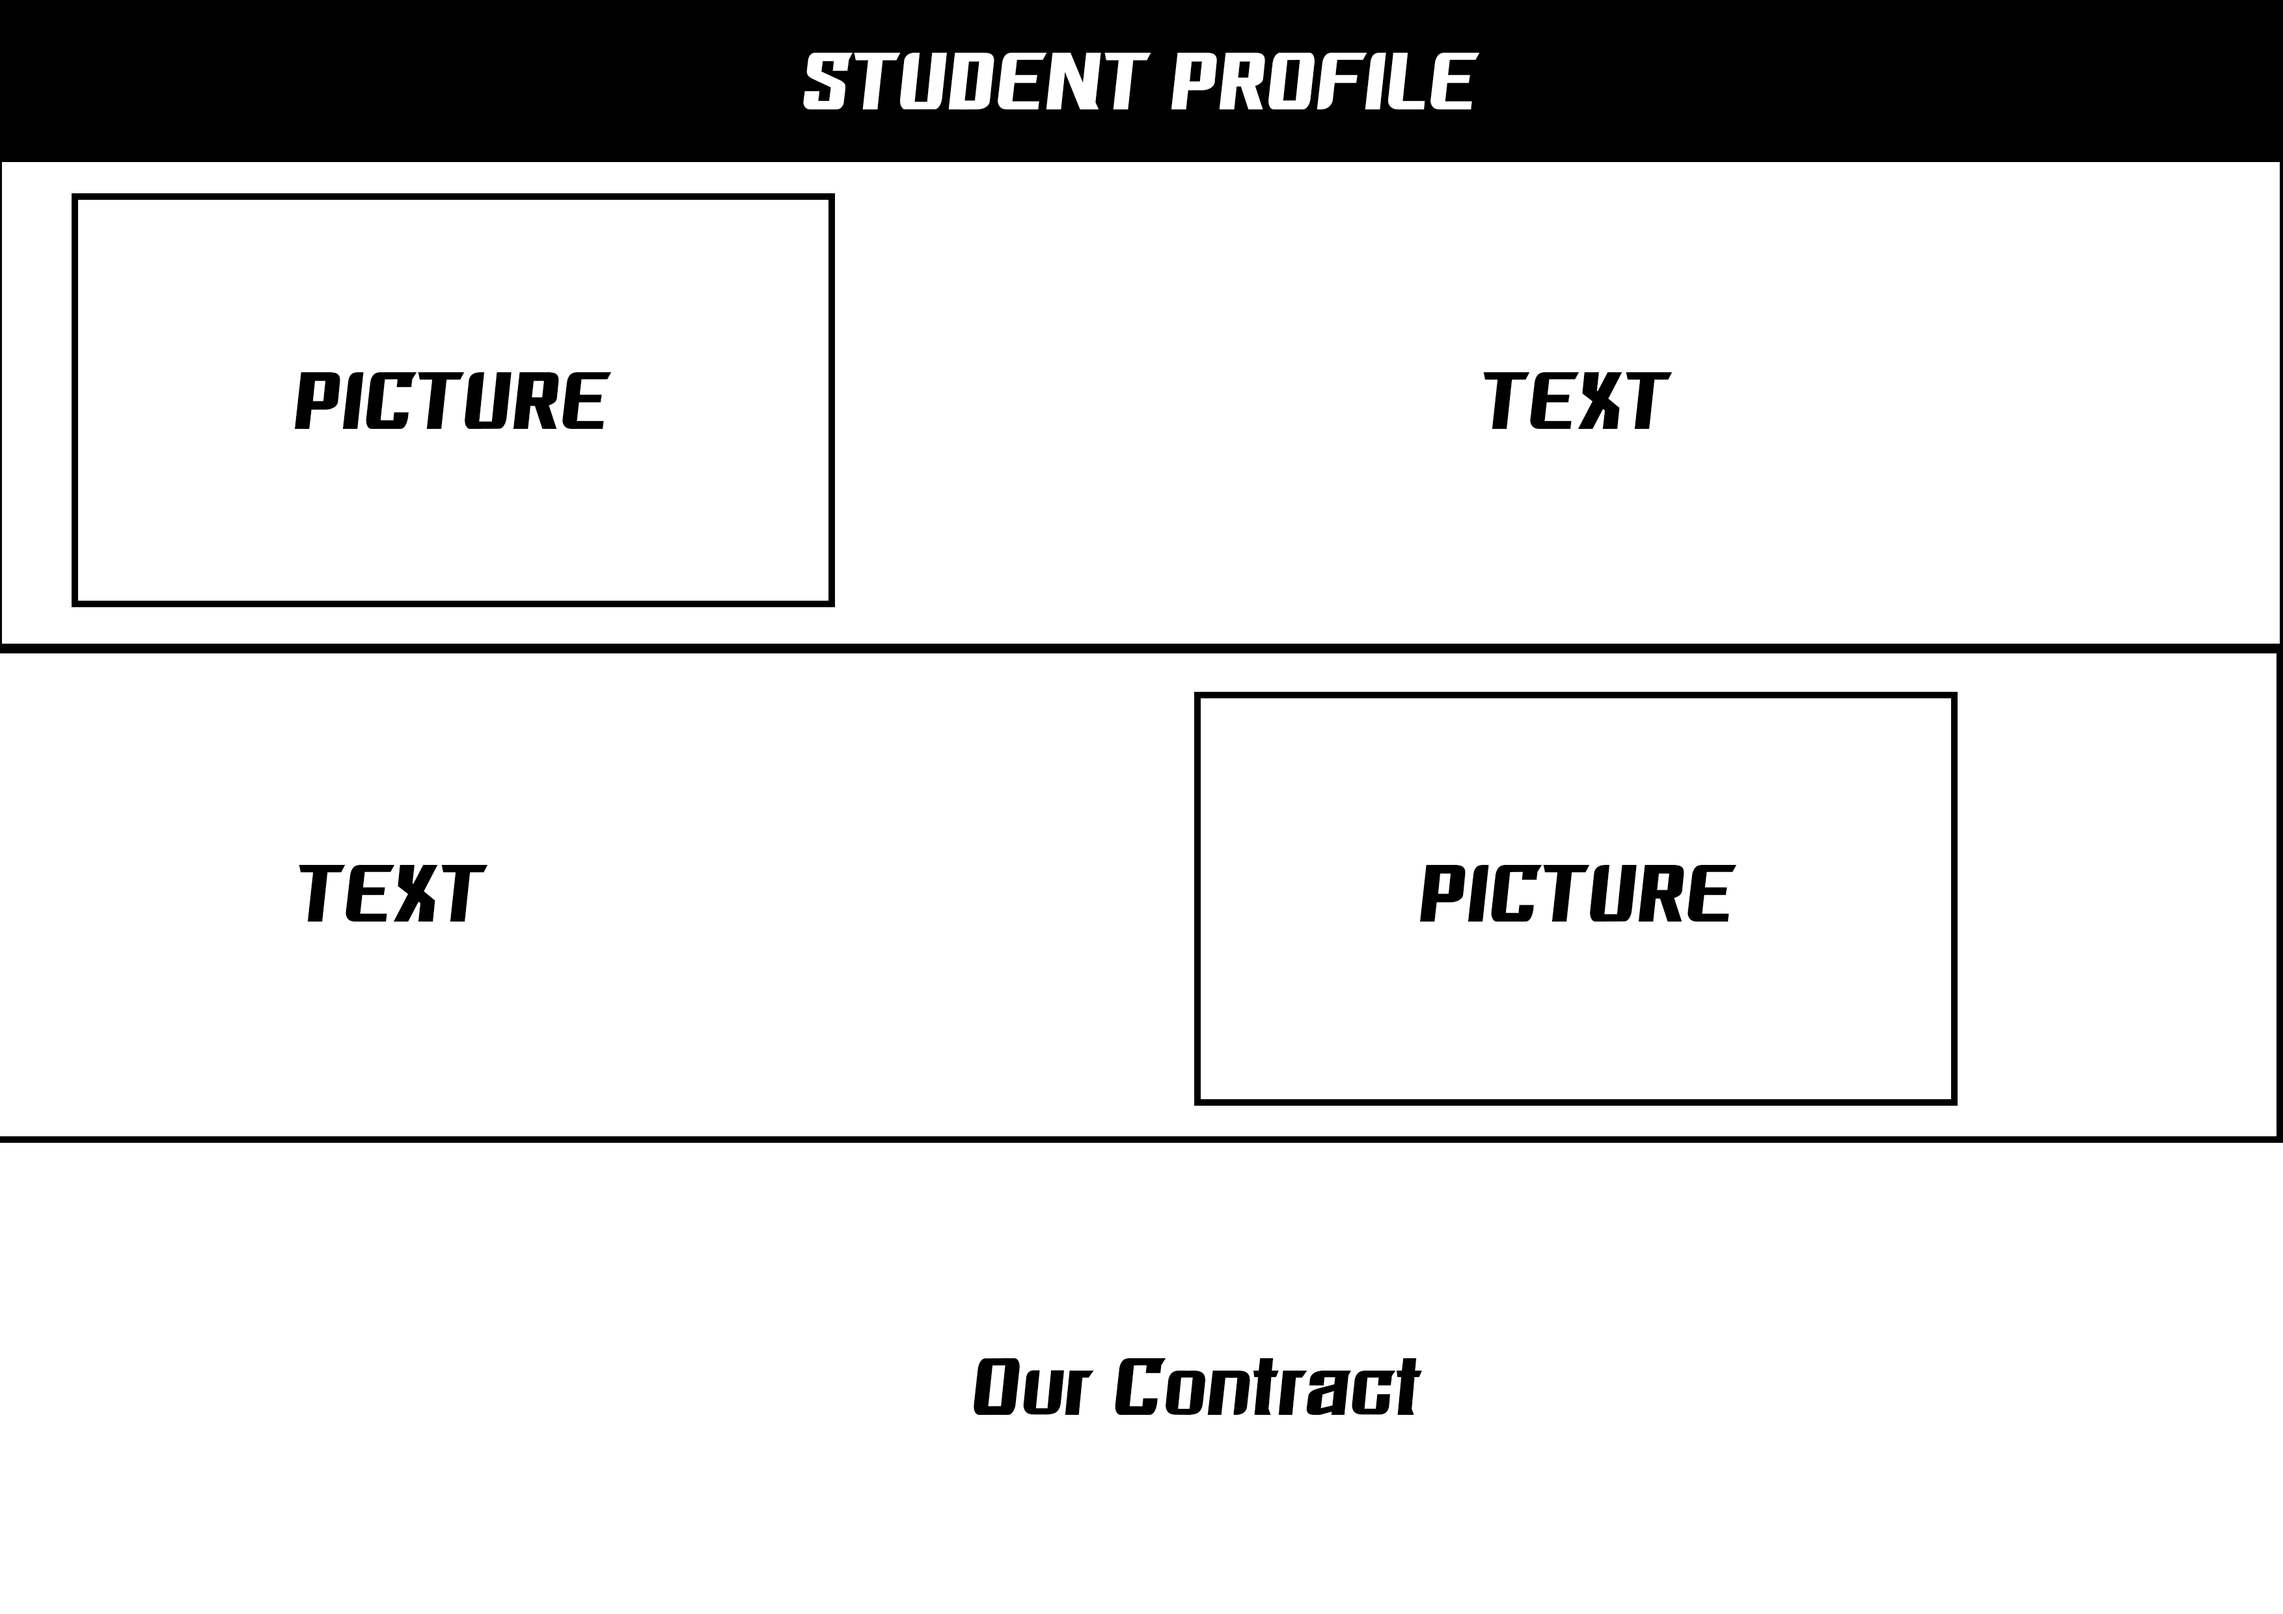
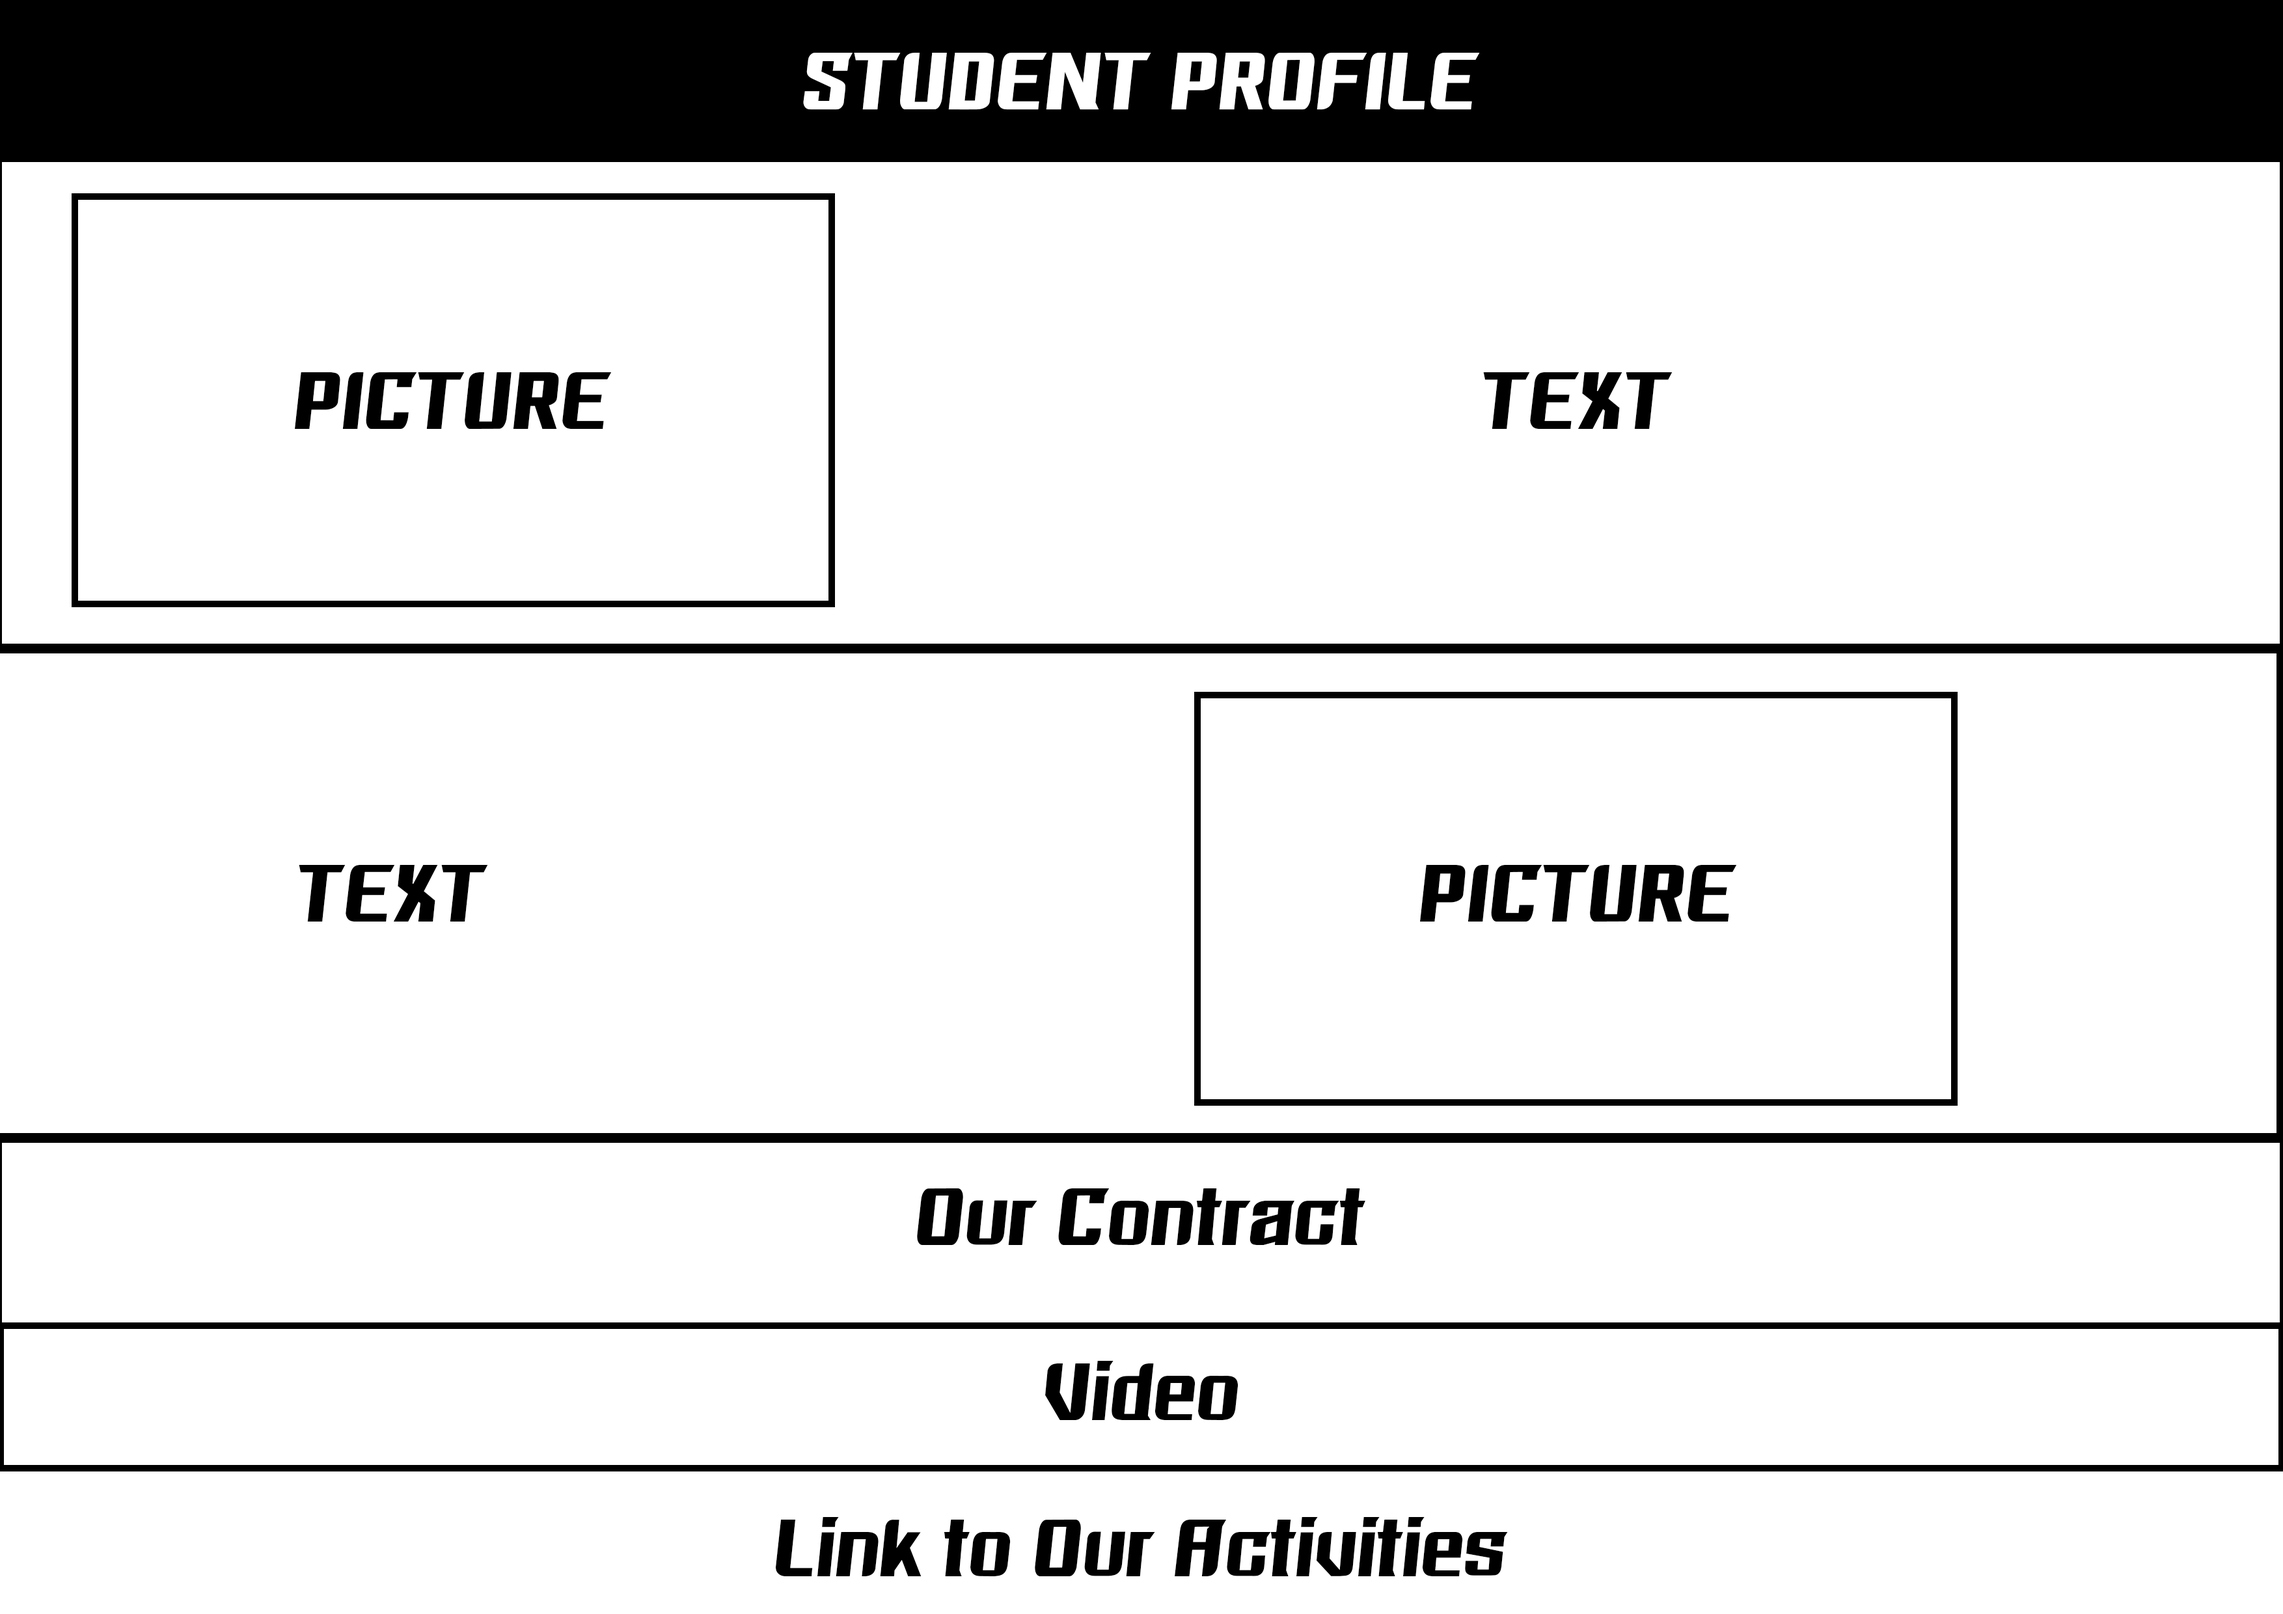
Add CSS & Fix design and html

Changed region(s): [[0.0, 0.7141, 1.0, 0.9935], [0.4039, 0.7141, 0.6214, 0.7762]]

diff --git a/HTML/Home_Page.html b/HTML/Home_Page.html
@@ -5,7 +5,7 @@
         <meta name="viewport" content="width=device-width, initial-scale=1.0">
         <title>Home Page</title>
         <link rel="shortcut icon" type="x-icon" href="../Pictures/png-transparent-danganronpa-v3-killing-harmony-danganronpa-2-goodbye-despair-logo-design-game-service-logo.png">
-        <link rel="stylesheet" href="../CSS/">
+        <link rel="stylesheet" href="../CSS/Student_Profile.css">
     </head>
     <body>
         <div class="Header">
@@ -14,7 +14,9 @@
         <div class="GunDATA">
             <img src="../Pictures/IMG_0720.jpg" alt="Handsome Boy">
             <div>
-                <h1 class="Infoheader">DATA BASE</h1>
+                <div class="DATA_BASE">
+                    <h1>DATA BASE</h1>
+                </div>
                 <ul>
                     <li><strong>Name :</strong> Kantheephob Klamcham</li>
                     <li><strong>Nick Name :</strong> Gun</li>
@@ -27,7 +29,9 @@
         </div>
         <div class="OwenDATA">
             <div>
-                <h1 class="Infoheader">DATA BASE</h1>
+                <div class="DATA_BASE">
+                    <h1>DATA BASE</h1>
+                </div>
                 <ul>
                     <li><strong>Name :</strong> Nontapat Rangubthuk</li>
                     <li><strong>Nick Name :</strong> Owen</li>
@@ -37,7 +41,9 @@
                     <li><strong>Hobby :</strong> Playing games</li>
                 </ul>
             </div>
-            <img src="../Pictures/Owen.jpg" alt="Handsome Boy V2">
+            <div class="OwenPicture">
+                <img src="../Pictures/Owen.jpg" alt="Handsome Boy V2">
+            </div>
         </div>
         <div class="Header2">
             <h1>Contract</h1>
@@ -45,31 +51,30 @@
         <div class="Contract">
             <div class="Phone">
                 <img src="../Pictures/png-tel-phone-icon-png-clipart-best-image-938-360.png" alt="Phone" title="Don't call me too much ">
-                <p><strong>Tell Gun :</strong> 0657509989</p>
-                <p><strong>Tell Owen :</strong> 0959541487</p>
+                <p><strong>Tell Gun :</strong> 0657509989 <br><strong>Tell Owen :</strong> 0959541487</p>
             </div>
             <div class="Gmail">
                 <img src="../Pictures/gmail icon.png" alt="Gmail" title="Didn't read that much">
-                <p>kantheephob49178@gmail.com</p>
-                <p>Nontapat.ran@dome.tu.ac.th</p>
+                <p>kantheephob49178@gmail.com<br>Nontapat.ran@dome.tu.ac.th</p>
             </div>
             <div class="Discord">
                 <img src="../Pictures/discord icon.png" alt="Discord" title="Click and add friend to contract me">
                 <a href="https://discordapp.com/users/962137014445166592" target="_blank"><p>P'Gun</p></a>
             </div>
         </div>
-        <div class="VideoHeader">Introduciton Video</div>
+        <div class="VideoHeader">
+            <h1>Introduciton Video</h1>
+        </div>
         <div class="Video">
-            <h2>Self-introduction Video</h2>
             <div class="GunVideo">
-                <video src="../Videos/Self-introduction.mp4" controls width="50%" height="315"></video>
+                <video src="../Videos/Self-introduction.mp4" controls width="90%" height="90%"></video>
             </div>
             <div class="OwenVideo">
-                <video src="../Videos/IMG_0339.mp4" controls width="50%" height="315"></video>
+                <video src="../Videos/IMG_0339.mp4" controls width="90%" height="90%"></video>
             </div>
         </div>
-        <div class="link to activity">
-            <a href="./Our_Activities.html"><h1>Our Activities</h1></a>
+        <div class="link_to_activity">
+            <a href="./Our_Activities.html" target="_blank"><h1>Our Activities</h1></a>
         </div>
     </body>
 </html>

diff --git a/CSS/Student_Profile.css b/CSS/Student_Profile.css
@@ -1,0 +1,202 @@
+@font-face {
+    font-family: Archive;
+    src: url(../Fonts/Archive-Regular.woff);
+}
+
+@font-face {
+    font-family: Doyser;
+    src: url(../Fonts/B2\ SIGN\ Big\ Match.woff);
+}
+
+body {
+    margin: 0;
+}
+
+.Header {
+    background-color: #85C1E9;
+    text-align: center;
+    border: 3px solid #7F8C8D;
+    font-family: Archive;
+    color: white;
+    font-size: 20px;
+    margin: 0;
+    padding: 10px;
+    position: sticky;
+    top: 0;
+    left: 0;
+    right: 0;
+    z-index: 1;
+}
+
+.Header h1 {
+    margin: 10px;
+}
+
+.GunDATA {
+    background-color: #F4F6F7;
+    overflow: auto;
+    display: grid;
+    grid-template-columns: repeat(2, 1fr);
+    padding: 20px;
+    align-items: center;
+    border: 2px ridge black;
+}
+
+.GunDATA img {
+    width: 100%;
+    justify-content: center;
+    border: 5px inset #CCD1D1;
+}
+
+.DATA_BASE {
+    display: flex;
+    justify-content: center;
+    align-items: center;
+}
+
+.DATA_BASE h1 {
+    background-color: #FDFEFE;
+    text-align: center;
+    border: black dashed;
+    width: 50%;
+    font-family: Doyser;
+    font-size: 50px;
+    margin: 10px;
+}
+
+.GunDATA li {
+    list-style-type: none;
+    font-size: 30px;
+    margin: 20px;
+}
+
+.OwenDATA {
+    background-color: #F4F6F7;
+    overflow: auto;
+    display: grid;
+    grid-template-columns: repeat(2, 1fr);
+    padding: 20px;
+    justify-content: center;
+    align-items: center;
+    border: 2px ridge black;
+}
+
+.OwenDATA li {
+    list-style-type: none;
+    font-size: 30px;
+    margin: 30px;
+}
+
+.OwenPicture {
+    display: flex;
+    align-items: center;
+    justify-content: center;
+}
+
+.OwenPicture img {
+    width: 40%;
+    border: 5px inset #CCD1D1;
+}
+
+.Header2 {
+    text-align: center;
+    font-family: Archive;
+    font-size: 20px;
+    border: black dashed;
+    margin: 0;
+    background-color: #85C1E9;
+    color: #F4F6F7;
+}
+
+.Header2 h1 {
+    margin: 10px;
+}
+
+.Contract {
+    display: grid;
+    grid-template-columns: repeat(3, 1fr);
+    background-color: #F4F6F7;
+}
+
+.Contract img {
+    width: 20%;
+}
+
+.Contract p {
+    margin-left: 5%;
+    font-size: 25px;
+}
+
+.Contract a {
+    font-size: 25px;
+    margin-left: 5%;
+    text-decoration: none;
+}
+
+.Phone {
+    display: flex;
+    justify-content: center;
+    align-items: center;
+    border: 2px ridge black;
+}
+
+.Gmail {
+    display: flex;
+    justify-content: center;
+    align-items: center;
+    border: 2px ridge black;
+}
+
+.Discord {
+    display: flex;
+    justify-content: center;
+    align-items: center;
+    border: 2px ridge black;
+}
+
+.VideoHeader {
+    text-align: center;
+    font-family: Archive;
+    font-size: 20px;
+    border: black double;
+    margin: 0;
+    background-color: #85C1E9;
+    color: #F4F6F7;
+}
+
+.VideoHeader h1 {
+    margin: 10px;
+}
+
+.Video {
+    display: grid;
+    grid-template-columns: repeat(2, 1fr);
+    background-color: #F4F6F7;
+}
+
+.GunVideo {
+    display: flex;
+    justify-content: center;
+    align-items: center;
+    border: 2px ridge black;
+}
+
+.OwenVideo {
+    display: flex;
+    justify-content: center;
+    align-items: center;
+    border: 2px ridge black;
+}
+
+.link_to_activity {
+    display: flex;
+    justify-content: center;
+    align-items: center;
+    border: 2px ridge black;
+}
+
+.link_to_activity a {
+    font-family: Archive;
+    text-decoration: none;
+    color: #434A4F;
+}

diff --git a/HTML/Our_Activities.html b/HTML/Our_Activities.html
@@ -15,6 +15,7 @@
   <!-- <meta http-equiv="Content-Security-Policy" content="upgrade-insecure-requests"> -->
   <title>Forms - CSTU Passport</title>
   <link rel="stylesheet" href="../CSS/styles.css">
+  <link rel="shortcut icon" type="x-icon" href="../Pictures/3209937.png">
 </head>
 <body>
   <!-- Form Container -->
